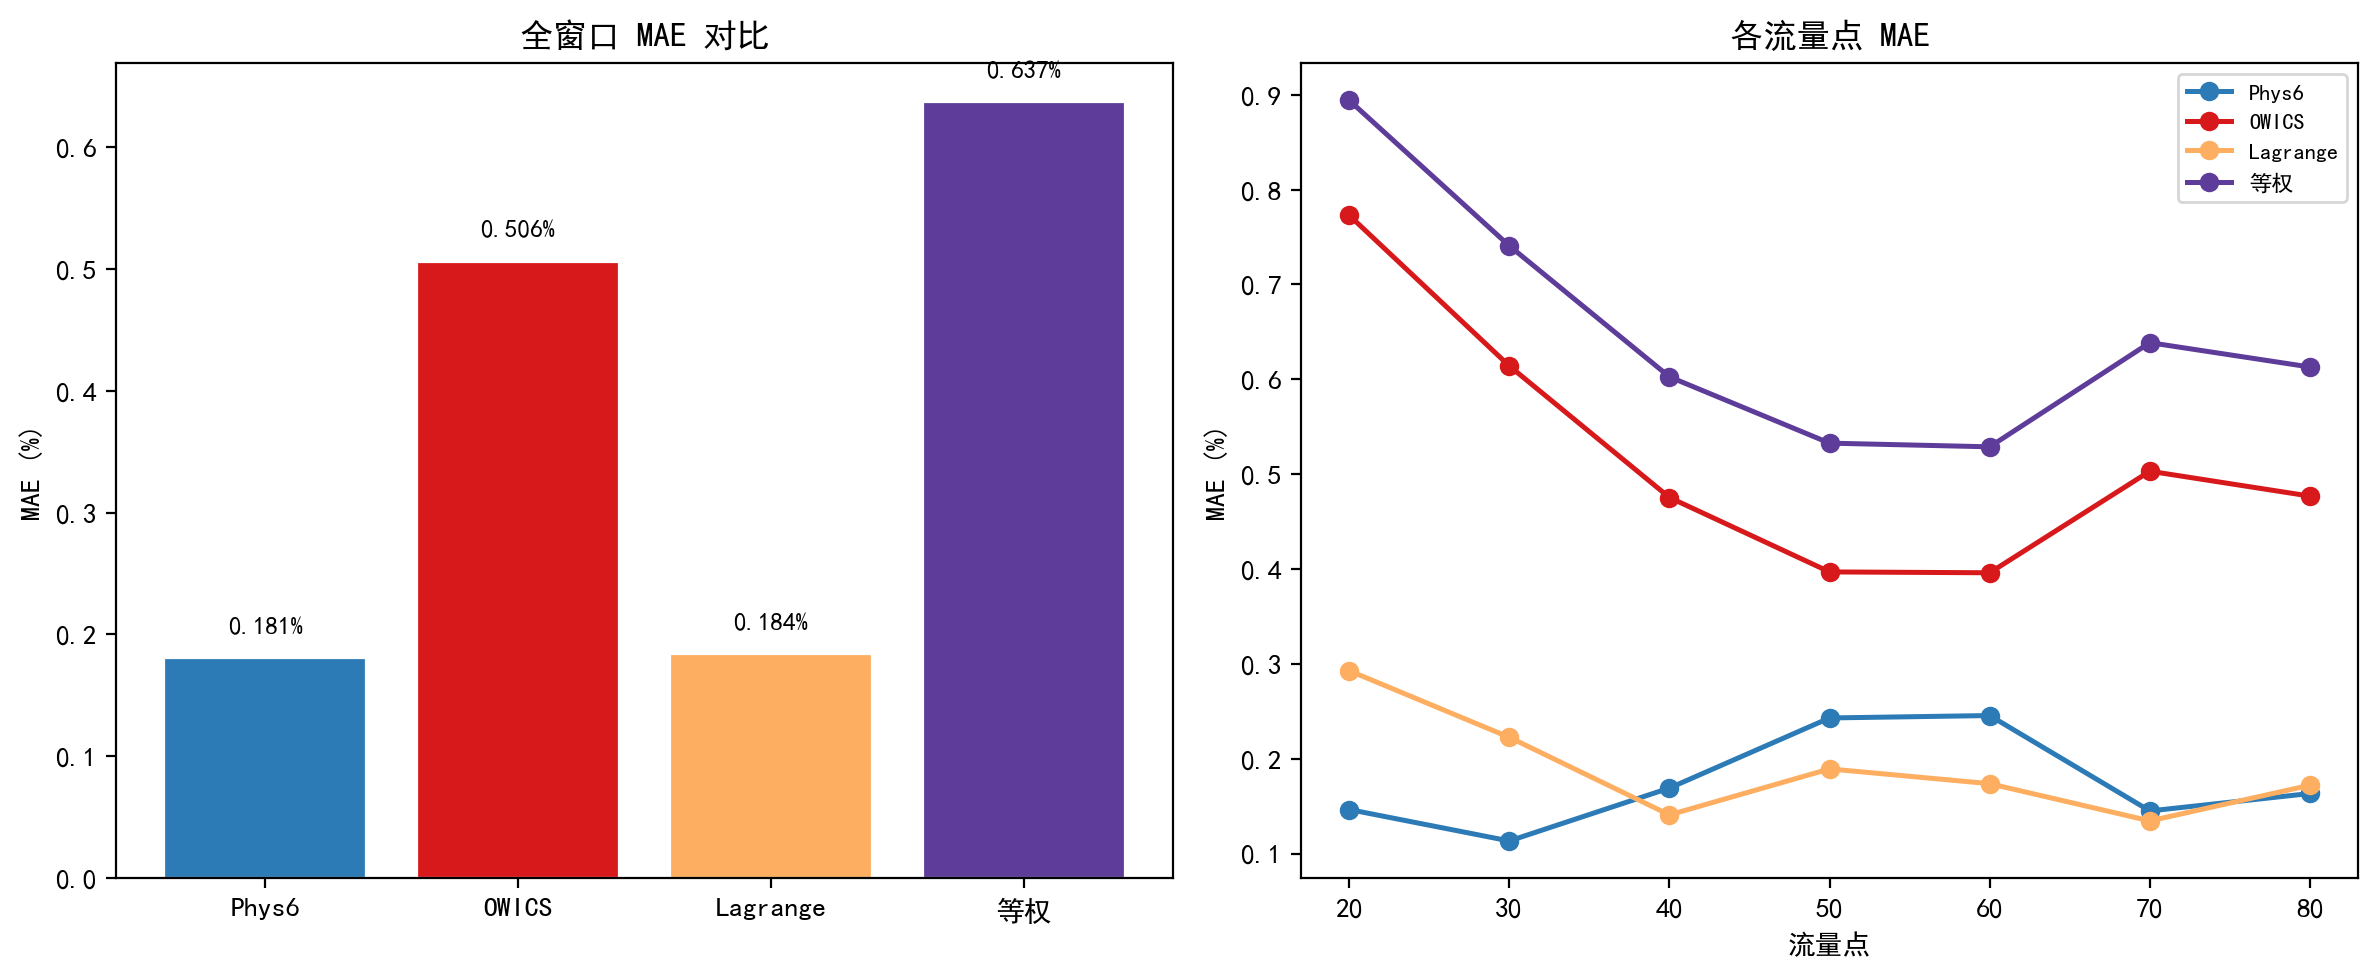
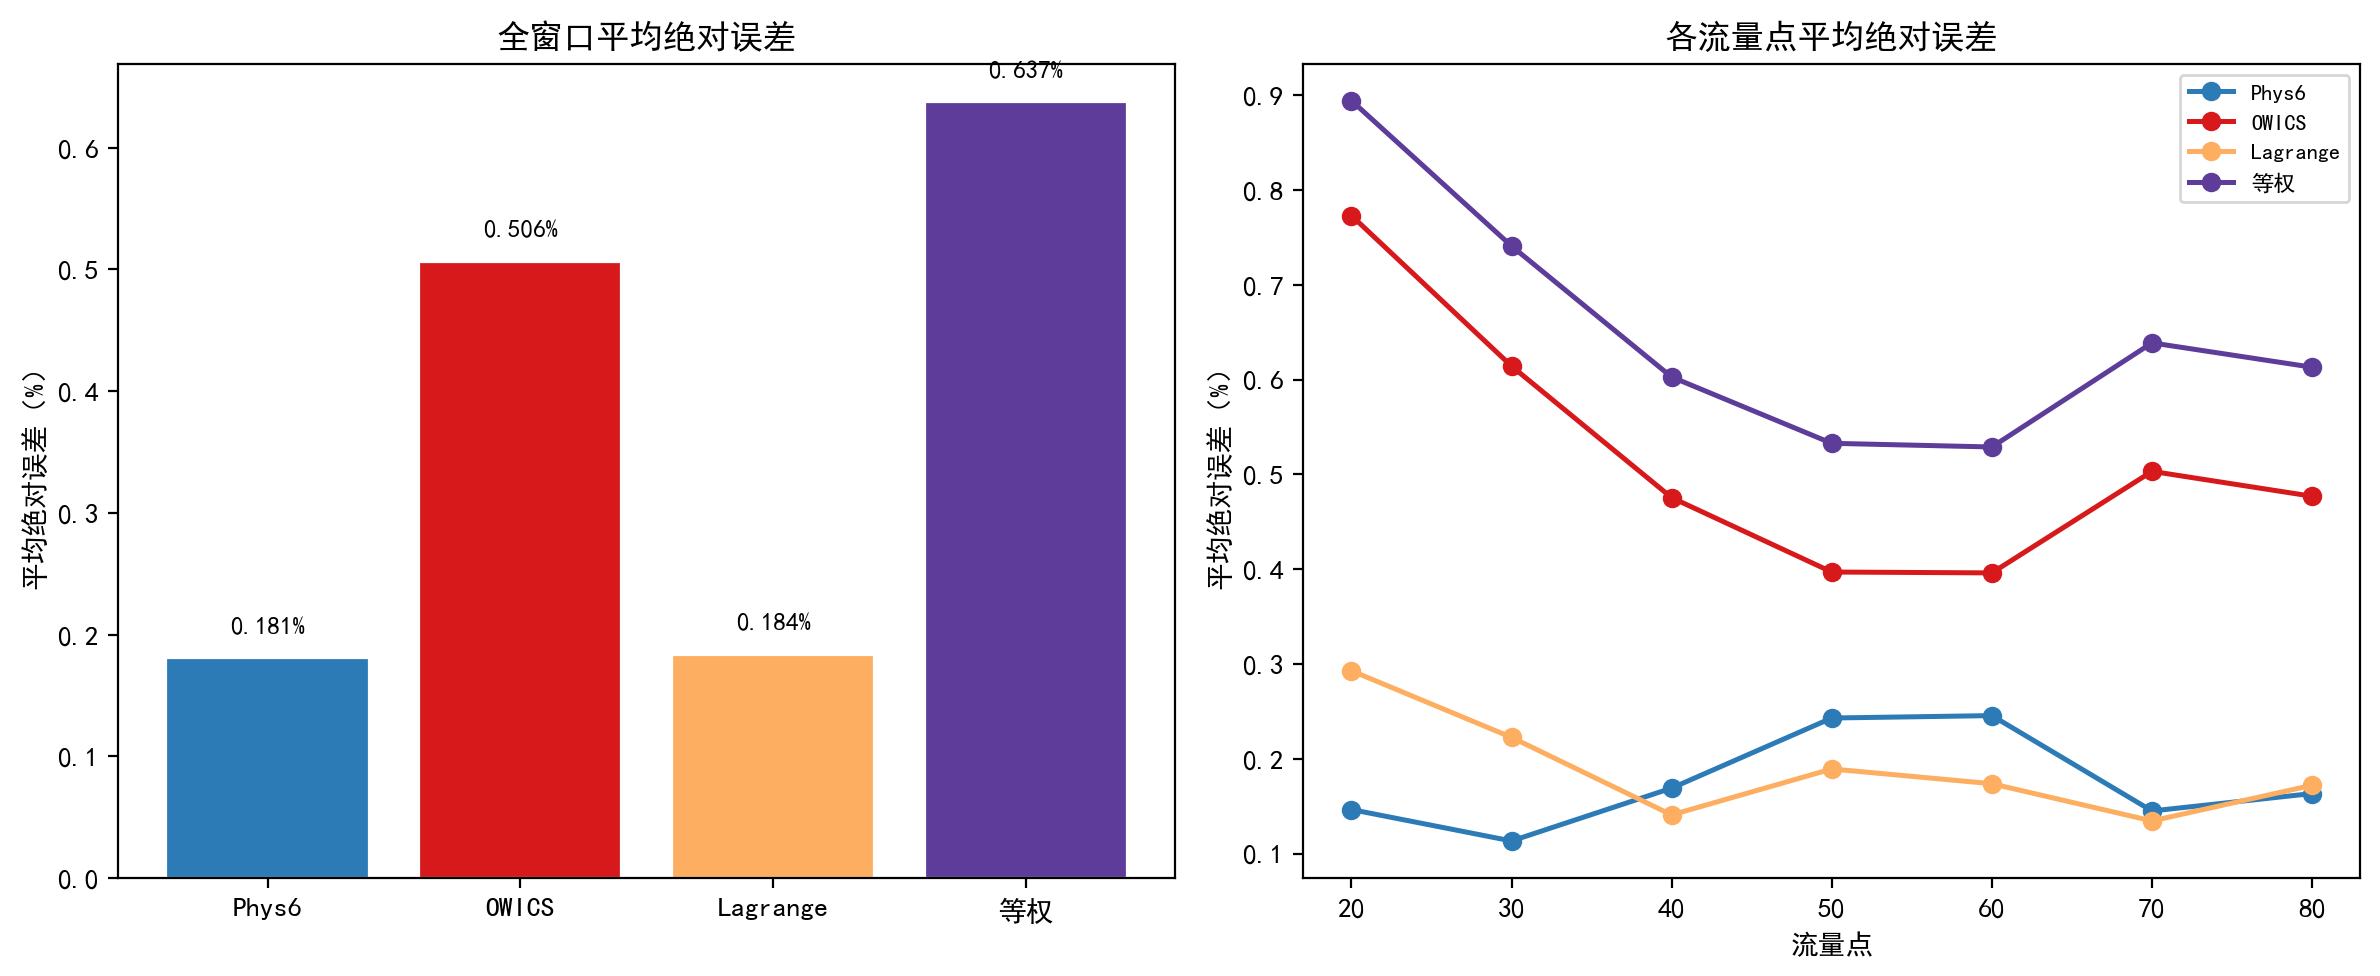
solver: 图表坐标轴标签改为中文

diff --git a/A题/code/问题1_误差对比.py b/A题/code/问题1_误差对比.py
@@ -62,7 +62,10 @@ def by_flow_table(errors):
 
 
 def plot_comparison(summary, by_flow):
-    """全窗口 MAE 柱状 + 分流量点 MAE 折线。"""
+    """全窗口平均绝对误差柱状 + 分流量点折线。"""
+    plt.rcParams["font.sans-serif"] = ["SimHei", "Microsoft YaHei", "DejaVu Sans"]
+    plt.rcParams["axes.unicode_minus"] = False
+
     fig, (ax1, ax2) = plt.subplots(1, 2, figsize=(12, 5))
     methods = list(METHODS.keys())
     labels = ["Phys6", "OWICS", "Lagrange", "等权"]
@@ -70,8 +73,8 @@ def plot_comparison(summary, by_flow):
 
     mae_vals = [summary.loc[summary["method"] == m, "mae_pct"].values[0] for m in methods]
     bars = ax1.bar(labels, mae_vals, color=colors, edgecolor="white", linewidth=0.8)
-    ax1.set_ylabel("MAE (%)")
-    ax1.set_title("全窗口 MAE 对比")
+    ax1.set_ylabel("平均绝对误差（%）")
+    ax1.set_title("全窗口平均绝对误差")
     for bar, val in zip(bars, mae_vals):
         ax1.text(bar.get_x() + bar.get_width() / 2, bar.get_height() + 0.02,
                  f"{val:.3f}%", ha="center", fontsize=9)
@@ -80,8 +83,8 @@ def plot_comparison(summary, by_flow):
         sub = by_flow[by_flow["method"] == name]
         ax2.plot(sub["flow_point"], sub["mae_pct"], "o-", color=color, label=label, linewidth=1.8)
     ax2.set_xlabel("流量点")
-    ax2.set_ylabel("MAE (%)")
-    ax2.set_title("各流量点 MAE")
+    ax2.set_ylabel("平均绝对误差（%）")
+    ax2.set_title("各流量点平均绝对误差")
     ax2.legend(fontsize=8)
 
     plt.tight_layout()